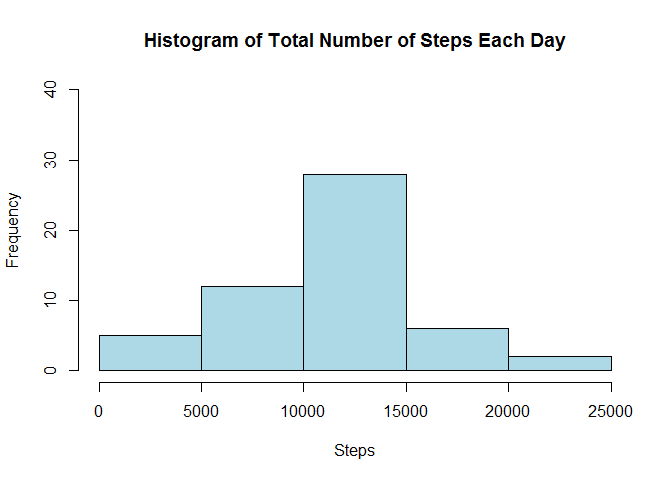
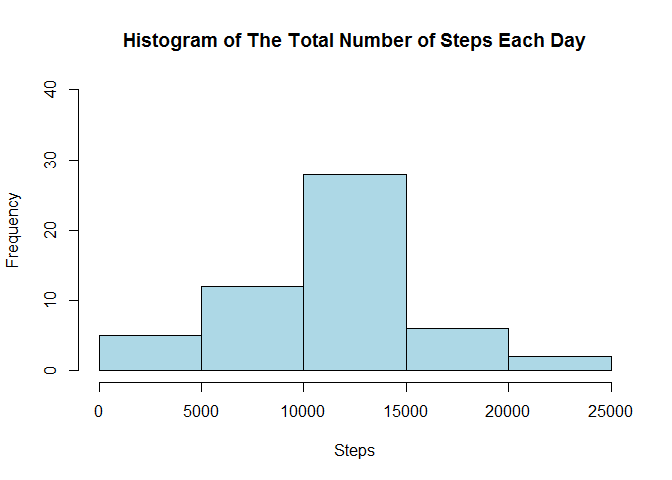
4th submission

Changed region(s): [[0.1562, 0.0625, 0.875, 0.125]]

diff --git a/PA1_template.html b/PA1_template.html
@@ -112,8 +112,8 @@ hist(steps_dsum[,2],
      xlab=&quot;Steps&quot;,
      ylim=(c(0,40)),
      col='light blue',
-     main=&quot;Histogram of Total Number of Steps Each Day&quot;)</code></pre>
[1 lines of base64/hex data omitted]
+     main=&quot;Histogram of The Total Number of Steps Each Day&quot;)</code></pre>
[1 lines of base64/hex data omitted]
 </div>
 <div id="calculate-and-report-the-mean-and-median-total-number-of-steps-taken-per-day" class="section level3">
 <h3>2. Calculate and report the <strong>mean</strong> and <strong>median</strong> total number of steps taken per day</h3>

diff --git a/PA1_template.md b/PA1_template.md
@@ -64,7 +64,7 @@ hist(steps_dsum[,2],
      xlab="Steps",
      ylim=(c(0,40)),
      col='light blue',
-     main="Histogram of Total Number of Steps Each Day")
+     main="Histogram of The Total Number of Steps Each Day")
 ```
 
 ![](PA1_template_files/figure-html/unnamed-chunk-2-1.png) 
